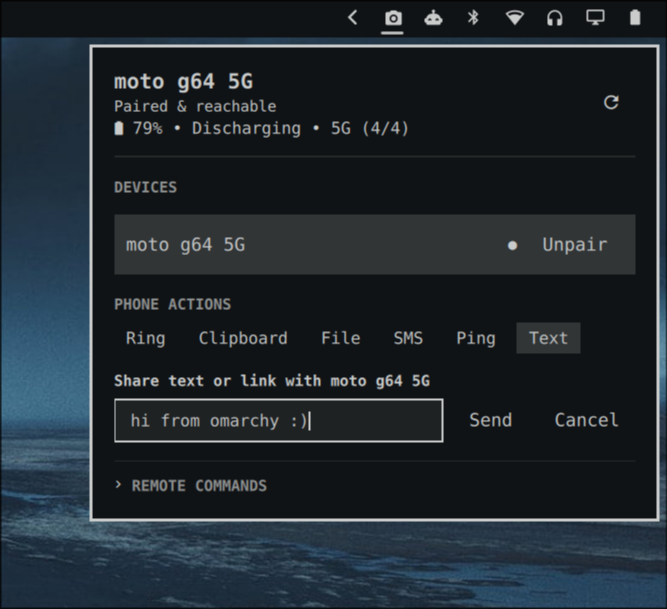
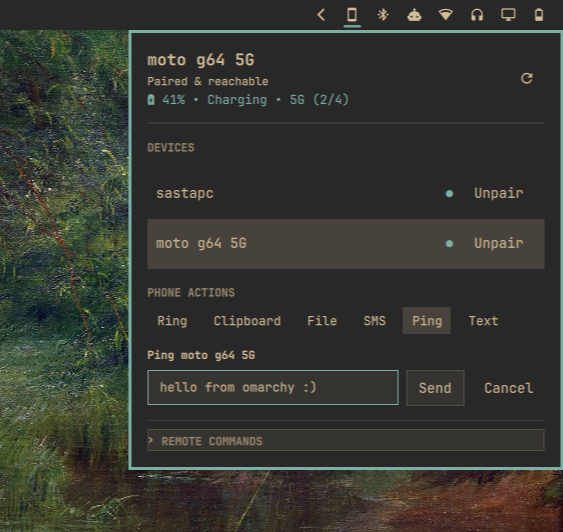
fix: hover always chooses the device in bottom (#10). (#11)
* fix: hover always chooses the device in bottom (#10).

* new screenshot, more tests and keyboard navigation

diff --git a/components/DeviceSection.qml b/components/DeviceSection.qml
@@ -133,13 +133,12 @@ Column {
             currentFill: Style.selectedFillFor(root.foreground, Color.accent)
             MouseArea {
                 anchors.fill: parent
-                hoverEnabled: true
-                onEntered: {
+                onClicked: {
                     panel.cursorActive = true
+                    panel.focusSection = "devices"
                     panel.selectedIndex = index
                     panel.selectDevice(modelData.id)
                 }
-                onClicked: panel.selectDevice(modelData.id)
             }
             Item {
                 id: row
@@ -212,7 +211,10 @@ Column {
                             text: "Pair"
                             foreground: root.foreground
                             fontFamily: root.fontFamily
-                            onClicked: if (root.service) root.service.pairDevice(modelData.id)
+                            onClicked: {
+                                panel.selectDevice(modelData.id)
+                                if (root.service) root.service.pairDevice(modelData.id)
+                            }
                         }
 
                         Button {
@@ -220,7 +222,10 @@ Column {
                             text: "Unpair"
                             foreground: root.foreground
                             fontFamily: root.fontFamily
-                            onClicked: panel.requestUnpairConfirm(modelData.id)
+                            onClicked: {
+                                panel.selectDevice(modelData.id)
+                                panel.requestUnpairConfirm(modelData.id)
+                            }
                         }
                     }
                 }

diff --git a/Panel.qml b/Panel.qml
@@ -86,6 +86,13 @@ KeyboardPanel {
         if (!service) return
         if (unpairConfirmingId && unpairConfirmingId !== id) cancelUnpairConfirm(unpairConfirmingId)
         service.selectDevice(id)
+        var list = service.devices || []
+        for (var i = 0; i < list.length; i++) {
+            if (list[i].id === String(id)) {
+                selectedIndex = i
+                break
+            }
+        }
     }
 
     function confirmUnpair(id) {

diff --git a/tests/test_state.py b/tests/test_state.py
@@ -1076,5 +1076,19 @@ class StateTests(unittest.TestCase):
     self.assertIn('dbusDebounceTimer', controller_source)
 
 
+  def test_device_section_selects_on_click_not_hover(self):
+    device_section_source = (ROOT / "components" / "DeviceSection.qml").read_text()
+    self.assertNotIn("onEntered", device_section_source)
+    self.assertNotIn("hoverEnabled", device_section_source)
+    self.assertIn("panel.selectDevice(modelData.id)", device_section_source)
+    self.assertIn("panel.cursorActive = true", device_section_source)
+    self.assertIn('panel.focusSection = "devices"', device_section_source)
+
+  def test_panel_select_device_syncs_selected_index(self):
+    panel_source = (ROOT / "Panel.qml").read_text()
+    self.assertIn("function selectDevice(id)", panel_source)
+    self.assertIn("selectedIndex = i", panel_source)
+
+
 if __name__ == "__main__":
     unittest.main(verbosity=2)
